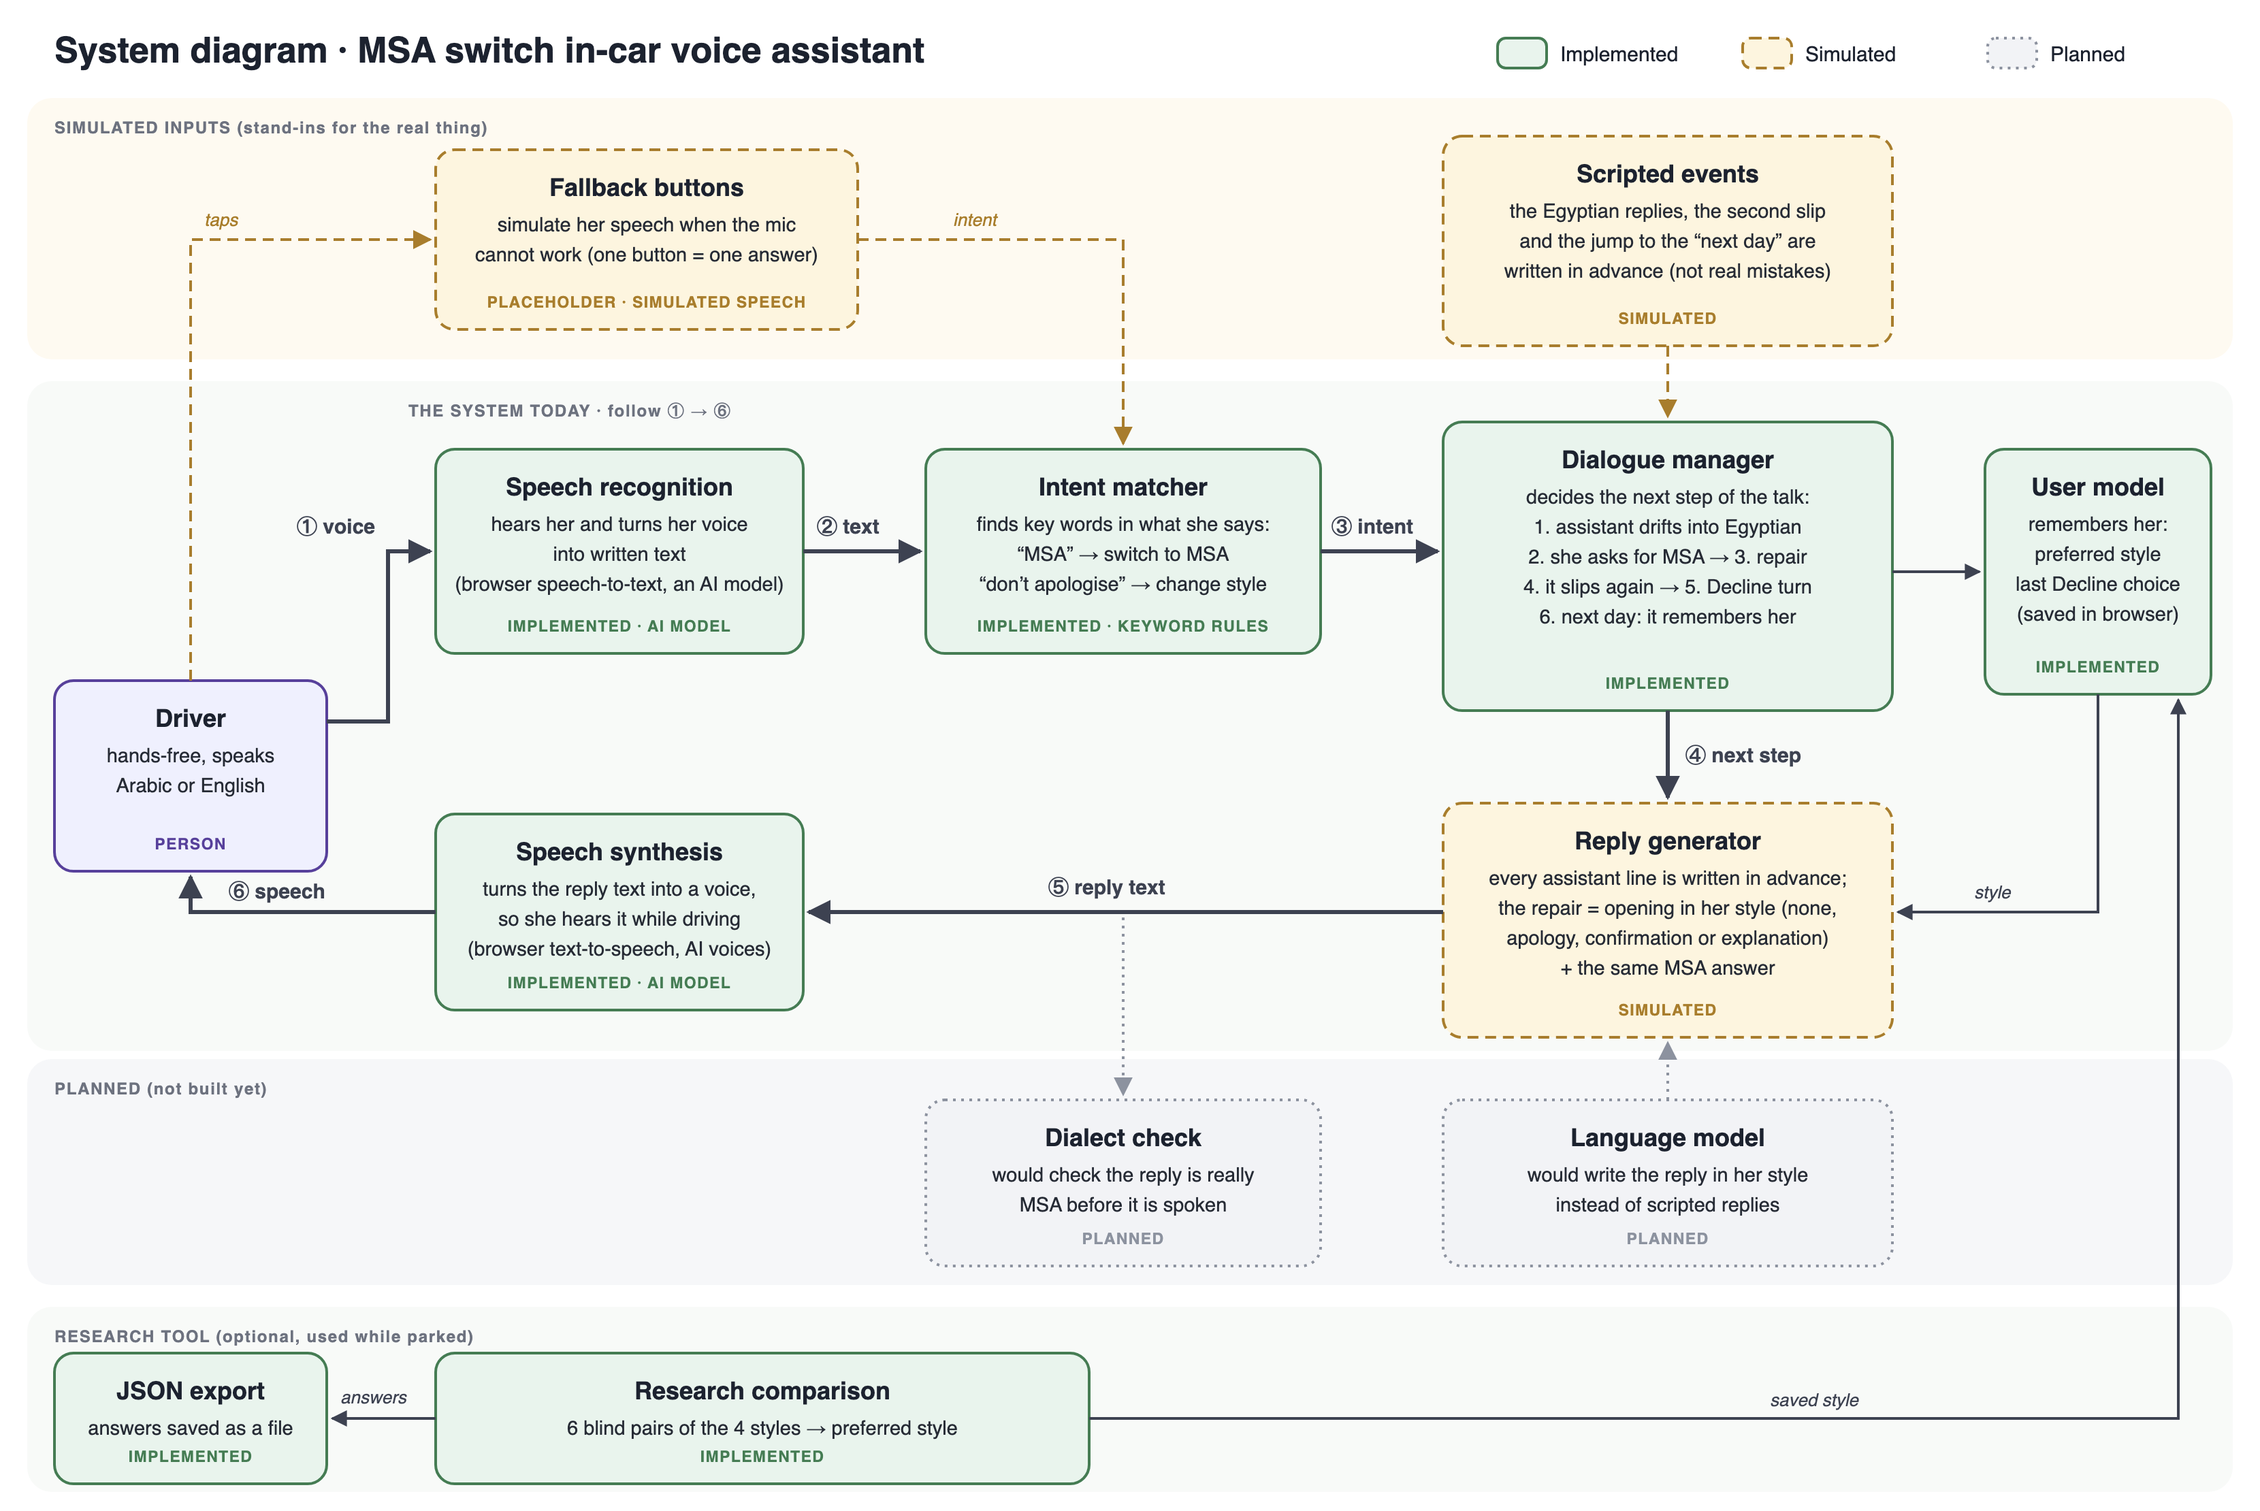
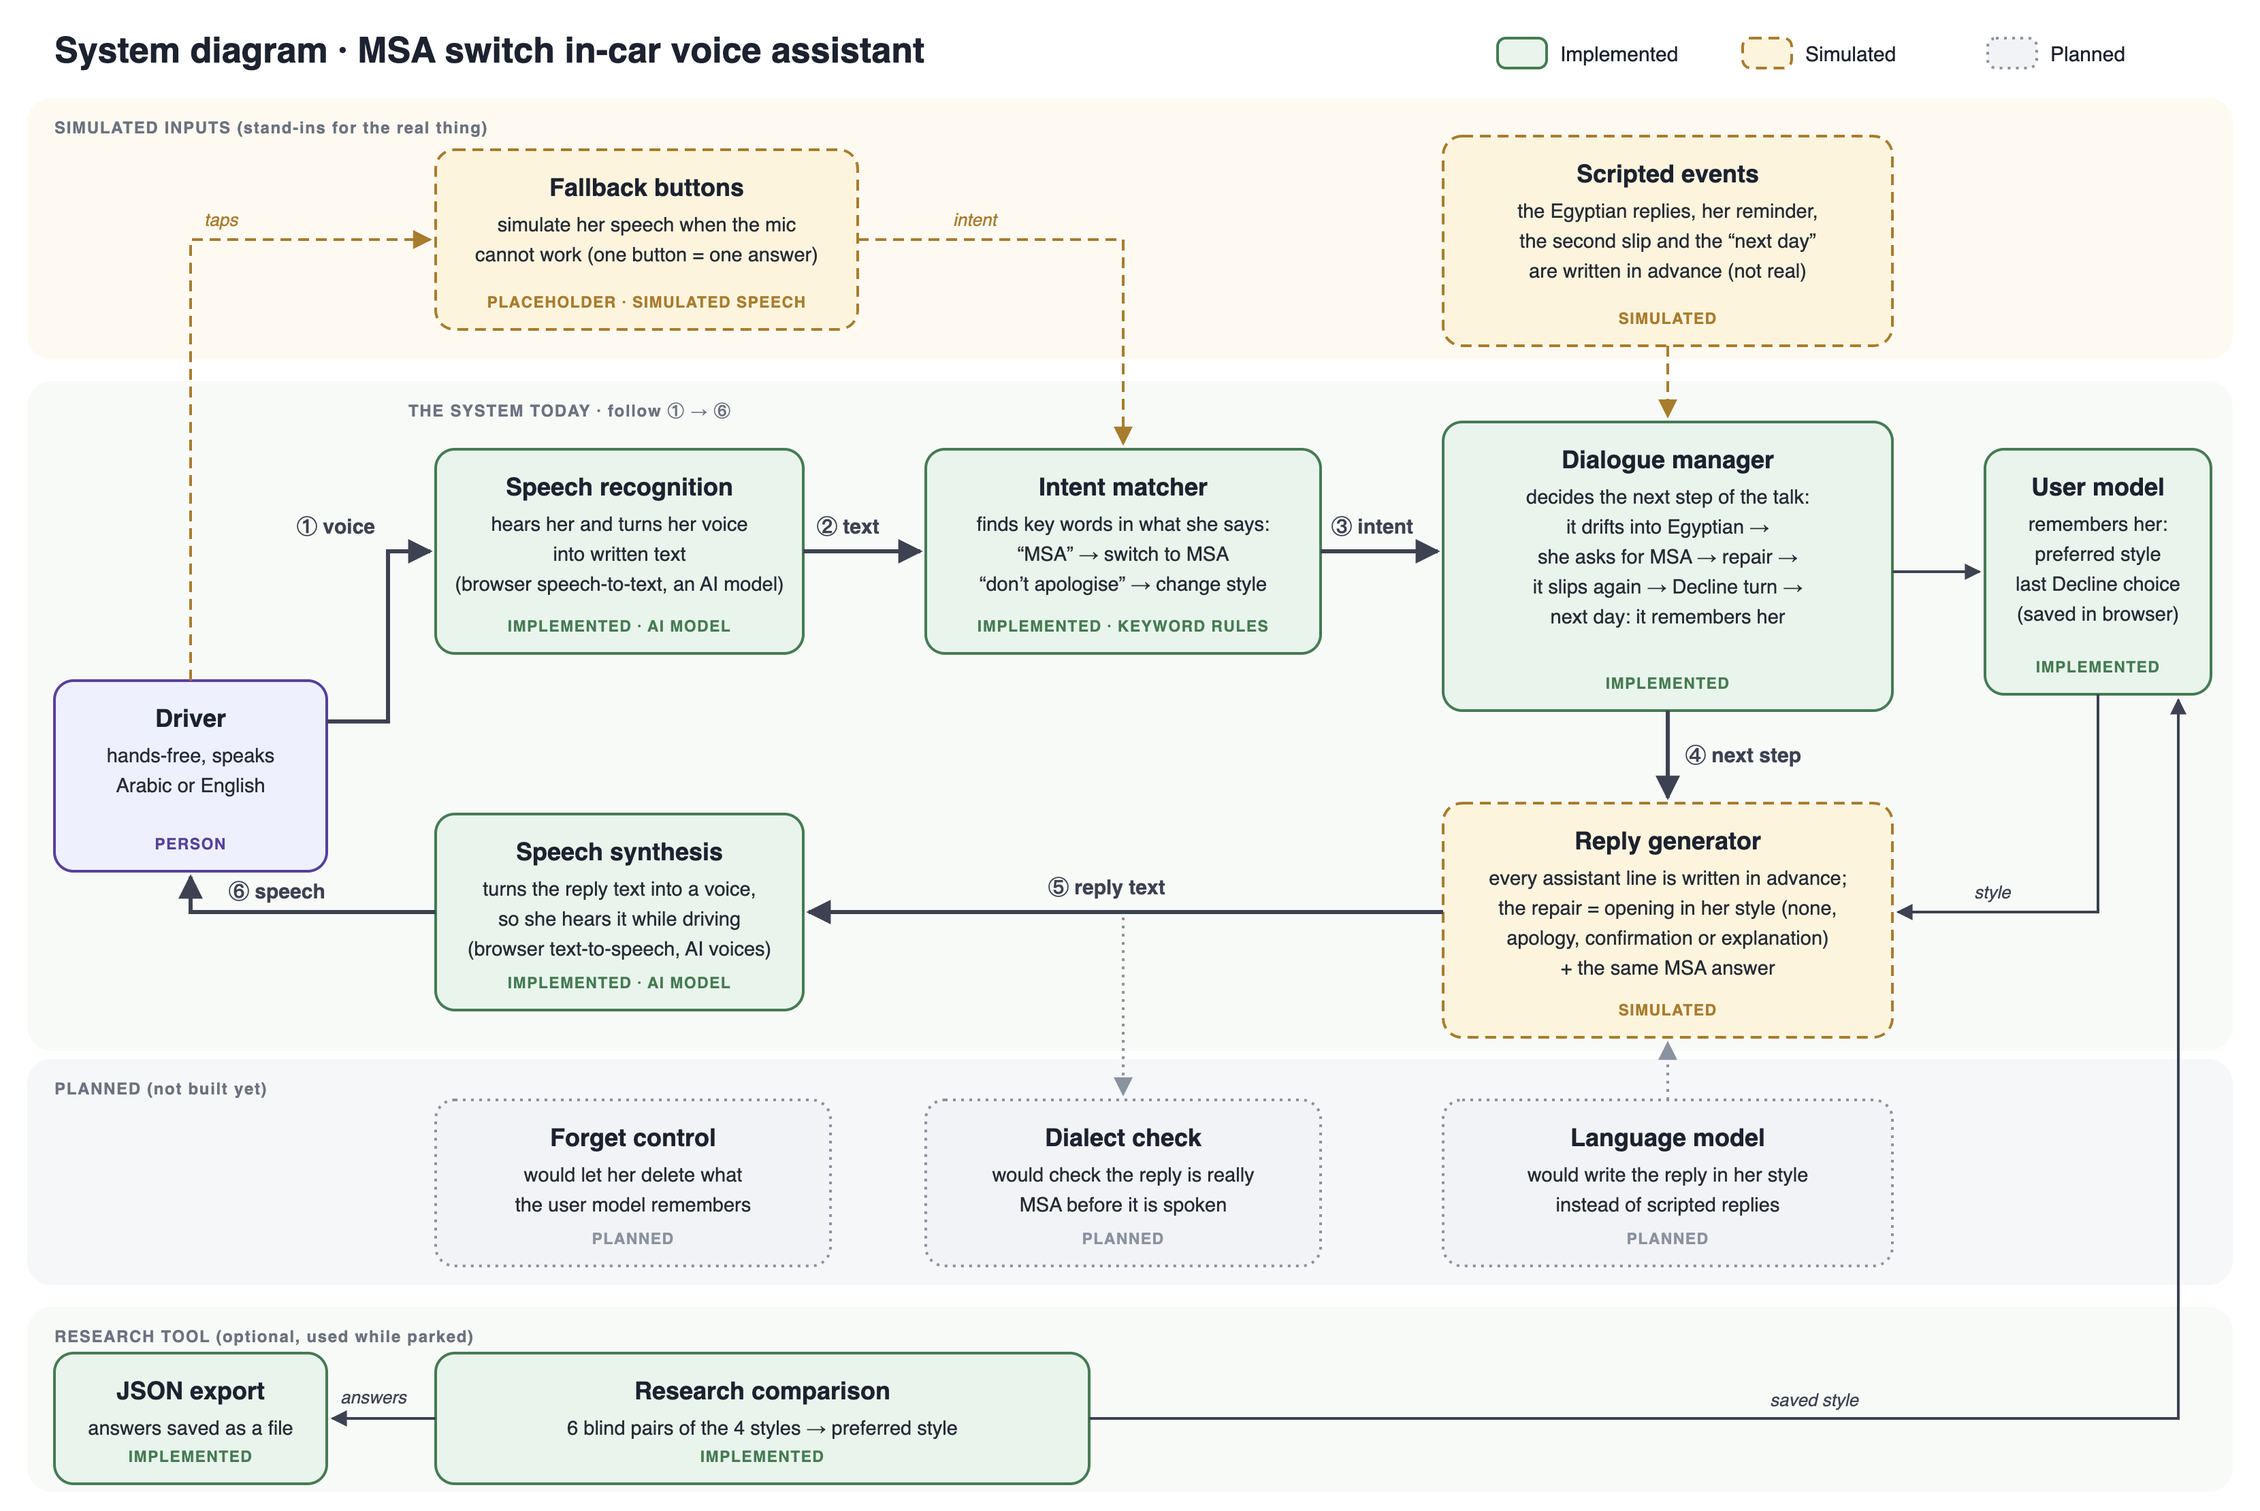
Consistency fixes: scripted lines labelled, Decline choice read back, retry wording, voice for Continue, forget control shown as planned

Changed region(s): [[0.6825, 0.3419, 0.8066, 0.4351], [0.6515, 0.1243, 0.8066, 0.1865], [0.2172, 0.7459, 0.3413, 0.8392]]

diff --git a/index.html b/index.html
@@ -166,8 +166,8 @@ button.chip{font-size:.72rem;padding:4px 9px;color:var(--muted)}
  <div class="drawer" id="statusDrawer" hidden>
   <div class="cols">
    <div class="col"><h3><i class="d-impl"></i>Implemented</h3><ul><li>Voice input (Web Speech API, keyword matching)</li><li>Speech output (Arabic and English voices)</li><li>Style change by voice, saved on the device</li><li>Memory of her choices across drives</li><li>Blind pairwise research comparison + JSON export</li></ul></div>
-   <div class="col"><h3><i class="d-sim"></i>Simulated</h3><ul><li>Assistant replies are scripted</li><li>The dialect drift and the slip are scripted</li><li>"Next day" is simulated in the same session</li><li>Buttons simulate her speech when the mic cannot work (placeholder)</li></ul></div>
-   <div class="col"><h3><i class="d-plan"></i>Planned</h3><ul><li>Replies generated by a language model in her chosen style</li><li>Automatic detection of dialect drift</li></ul></div>
+   <div class="col"><h3><i class="d-sim"></i>Simulated</h3><ul><li>Assistant replies are scripted</li><li>The dialect drift and the slip are scripted</li><li>Her opening questions and her reminder (“I told you, MSA!”) are scripted</li><li>"Next day" is simulated in the same session</li><li>Buttons simulate her speech when the mic cannot work (placeholder)</li></ul></div>
+   <div class="col"><h3><i class="d-plan"></i>Planned</h3><ul><li>Replies generated by a language model in her chosen style</li><li>Automatic detection of dialect drift</li><li>A control to make it forget her saved choices</li></ul></div>
   </div>
  </div>
  <div class="drawer" id="guideDrawer" hidden>
@@ -474,7 +474,8 @@ async function repair(){step(4);
  myStyle=STYLES.find(s=>s.id===map[0]);styleSaved=true;try{localStorage.setItem('msa-style',myStyle.id)}catch(e){}
  if(same){add('note','',`Kept: the style stays "${myStyle.name}" and is saved.`);setMood('happy','Her style is kept.')}
  else{add('note','',`Adapted: style changed to "${myStyle.name}" by voice and saved.`);setMood('happy','She changed the style in one sentence.')}
- setC('<button class="b p" id="next">Continue the drive →</button>');$('next').onclick=slip}
+ const go=await voiceChoice([{id:'next',label:'Continue the drive →',primary:1,kw:['نكمل','كمل','continue','يلا','next'],prio:1}]);
+ if(go.heard)await user(go.heard,'(heard by voice)');slip()}
 
 /* =====================================================================
    6. STUDY MODE (separate from the drive; done once, while parked)
@@ -483,7 +484,7 @@ async function repair(){step(4);
    ===================================================================== */
 // Leave the research comparison at any point without saving anything
 async function exitStudy(){if(TTS)speechSynthesis.cancel();closePanel();await wait(400);setMood('neutral','Back in the car, ready to drive.');
- add('note','','Left the research comparison. Nothing was changed.');
+ add('note','','Left the research comparison. Your style was not changed.');
  setC('<button class="b p" id="drive">▶ Start driving</button>');$('drive').onclick=start}
 $('pX').onclick=exitStudy;
 async function studyMode(){closePanel();chat.innerHTML='';setC('');status('');
@@ -558,9 +559,9 @@ async function slip(){step(5);setC('');status('');
  if(c.id==='retry'){await saidOr(c,'حاول مرة أخرى بالفصحى.','Try MSA again.');
   // ADAPTATION: this second return to MSA uses the style she chose (the opening of her style, then the honest promise)
   const op={plain:['',''],   // Just switch: no opening at all
-   apology:['أعتذر عن ذلك. سأعود إلى الفصحى.','I apologise for that. I will return to MSA.'],
+   apology:['أعتذر عن ذلك. سأبقى على الفصحى.','I apologise for that. I will stay in MSA.'],
    confirm:['حسنًا، فهمتُ أنكِ تريدين الفصحى فقط، وسأردّ بها.','OK, I understand you want MSA only, and I will reply in it.'],
-   explain:['انتقلتُ إلى اللهجة المصرية في ردّي السابق، وسأعود الآن إلى الفصحى.','I switched to Egyptian dialect in my previous reply, and I will now return to MSA.']}[myStyle.id];
+   explain:['انتقلتُ إلى اللهجة المصرية قبل قليل، وسأبقى الآن على الفصحى.','I switched to Egyptian dialect a moment ago, and I will now stay in MSA.']}[myStyle.id];
   add('note','',`Back to MSA in her chosen style: ${myStyle.name}.`);
   await bot(op[0]?op[0]+' وإن خرجتُ عنها مرة أخرى، فنبّهيني.':'إن خرجتُ عن الفصحى مرة أخرى، فنبّهيني.',op[1]?op[1]+' If I slip again, please tell me.':'If I slip out of MSA again, please tell me.');
   setMood('happy','Back to MSA in her style, with an honest promise.');nextDay('msa')}
@@ -570,9 +571,10 @@ async function slip(){step(5);setC('');status('');
 
 // Step 6 · Next day: ADAPTATION, the stored preference is applied from the first turn
 // The next-day opening follows HER choice in the Decline turn (msa | asis | english)
-function nextDay(choice){try{localStorage.setItem('msa-decline-choice',choice)}catch(e){}
+function nextDay(given){try{localStorage.setItem('msa-decline-choice',given)}catch(e){}
  setC('<button class="b p" id="nd">☀ Next day</button>');
- $('nd').onclick=async()=>{setC('');step(6);chat.innerHTML='';setMood('neutral','The next day, she starts the car again.');
+ $('nd').onclick=async()=>{let choice=given;try{choice=localStorage.getItem('msa-decline-choice')||given}catch(e){}   // the next day reads what was stored
+  setC('');step(6);chat.innerHTML='';setMood('neutral','The next day, she starts the car again.');
   const remembered={msa:'she wants MSA',asis:'MSA was not kept reliably yesterday',english:'she switched to English yesterday'}[choice];
   add('note','',`The next day · the assistant remembers: ${remembered}; chosen style: ${myStyle.name}.`);await beat();
   const END=()=>{setC('<button class="b" id="again">↺ Replay the drive</button><button class="b" id="study2">🅿 Research comparison</button>');

diff --git a/README.md b/README.md
@@ -1,6 +1,6 @@
 # Switching to Modern Standard Arabic: an in-car voice assistant prototype
 
-**README prose word count: 1443** (headings, tables, links and code not counted)
+**README prose word count: 1592** (headings, tables, links and code not counted)
 
 **Live prototype:** https://rashaalqahtani.github.io/msa-switch-prototype/ (open in Chrome; allow the microphone)
 
@@ -16,7 +16,7 @@ A driver talks hands-free to a voice assistant on a phone mount. The assistant d
 | Dialogue flow: drift → request → repair → slip → Decline turn → next day | Implemented |
 | Changing the acknowledgement style by voice, saved in the browser | Implemented |
 | Research comparison: 6 blind pairs of the 4 styles, JSON export | Implemented |
-| Assistant replies, the dialect drift, the slip and the jump to the "next day" | Simulated (written in advance) |
+| Assistant replies, the dialect drift, the slip, the jump to the "next day", and her scripted lines (her opening questions and the reminder “I told you, MSA!”) | Simulated (written in advance) |
 | Fallback buttons | Placeholder: they simulate her speech when the microphone cannot work |
 | Replies written by a language model in her chosen style | Planned |
 | Automatic detection of dialect drift before a reply is spoken | Planned |
@@ -55,12 +55,13 @@ Main changes, why they were made and what was checked:
 11. **Found by testing the live site with a real microphone** (commit d9edeae): the end buttons disappeared when the browser delivered the same spoken answer twice, so each question now accepts one answer only; the first voice step looked different from the others, so every step now has the same controls and one Arabic/English switch; Safari stopped listening, so the page now recommends Chrome.
 12. **The chosen style is shown and used in the same drive** (commit d9edeae). At first a style change only took effect after a replay; now the assistant gives an example of the new style at once and uses it the next time it returns to MSA.
 13. **The hint matches what she just heard.** While reviewing the repair I noticed that after a Confirmation the assistant still said “for example, say: don’t apologise”, although it had not apologised, and the hint was attached to the end of the answer about jobs. The hint is now its own short turn after the answer, and its example is the opposite of the style she just heard (Apology → “don’t apologise”, Just switch → “apologise”, Confirmation → “tell me what happened”, Explanation → “confirm you understood”). Checked for all four styles.
-14. **A clearer way to keep the style.** After the repair the main button said “Continue the drive” and the spoken answer was “نكمل”. While testing I found this unclear: it could mean keeping the style or ignoring the hint, and “نكمل” also means “continue as it is” in the Decline turn. The button is now “Keep this style” and she can say “نفس الطريقة” or “خلّه كذا”. Checked by voice: these phrases keep the style, and “نكمل” still works only in the Decline turn.
+14. **A clearer way to keep the style.** After the repair the main button said “Continue the drive” and the spoken answer was “نكمل”. While testing I found this unclear: it could mean keeping the style or ignoring the hint, and “نكمل” also means “continue as it is” in the Decline turn. The button is now “Keep this style” and she can say “نفس الطريقة” or “خلّه كذا”. Checked by voice: these phrases keep the style, and “نكمل” is no longer an answer after the repair.
 15. **Play always speaks in the research comparison.** While trying the comparison I pressed ▶ Play and heard nothing, because Fast mode (meant for reviewers) turns all speech off. Pressing Play is an explicit request to hear a reply, so Play now speaks even in Fast mode, while the drive itself stays silent in Fast mode. Checked with Fast mode on.
 16. **A clearer apology.** The Apology opening was “عذرًا على ذلك”. In Arabic “عذرًا” is often used to mean “excuse me”, so it may not be heard as a real apology, which matters when participants compare the styles. It is now “أعتذر عن ذلك” (“I apologise for that”), a first-person apology. Checked in the repair, the retry after the Decline turn and the research comparison.
 17. **The next day keeps a clear choice without asking again.** If she had chosen “Try MSA again” in the Decline turn, the next day still asked “MSA or English?”. While testing I found this contradicted the claim that it remembers her choice, and repeated the annoyance of the original problem. Now, after “Try MSA again”, it simply continues in MSA and says so; it still asks after “Continue as it is” or “Switch to English”, where yesterday’s choice was not clear. Checked on all next-day paths.
 18. **Next-day buttons say what really happens.** After she had switched to English, the next day offered “Continue in MSA”, although the assistant was speaking English, so nothing in MSA could be continued. The buttons now follow yesterday’s choice: after English, “Continue in English” (also by saying “continue”) or “Try MSA again”; after “Continue as it is”, “Start in MSA” or “Start in English”. The replies match (“I will go back to MSA”, “I will start in MSA”). Checked on every next-day path.
 19. **Line-by-line logic check.** I re-read every reply in its context and fixed four mismatches: the drift opened with a greeting (“how are you?”) in the middle of the conversation and did not answer her question, so it now gives the same answer about jobs in Egyptian dialect, and only the variety differs from the MSA repair; “Just switch” said “I will return to MSA” when she asked it to try again, which is an opening, so it now only says “if I slip again, tell me”; naming the style she already had was reported as a change, so it now says the style is kept; and the caption said the comparison happens “before driving” even when opened after a drive. All 25 paths were run again.
+20. **Independent consistency check.** A separate review compared the report, the code, this README and the figures. It found: her reminder (“I told you, MSA!”) and her opening questions are scripted, but this was not stated everywhere, so they are now listed as simulated in the report, the “What is real?” panel, this table and the diagram; her Decline choice was saved but never read back, so the next day now reads it from browser storage; after the Decline turn, “Try MSA again” said “in my previous reply… I will return to MSA” although the previous reply was already in MSA, so it now says “a moment ago… I will stay in MSA”; “Continue the drive” after a style change could only be tapped, so it now also accepts “نكمل” by voice; the planned forget control was added to the panel and the diagram. All 25 paths were run again.
 
 All 25 drive paths (5 choices after the repair × 5 endings: “Try MSA again”, or “Continue as it is” or “Switch to English” followed by MSA or English the next day) were run automatically, and a 47-point checklist (every expected Arabic line, the research comparison and the page controls) was checked on the live site, with voice answers simulated by a mocked recogniser.
 
